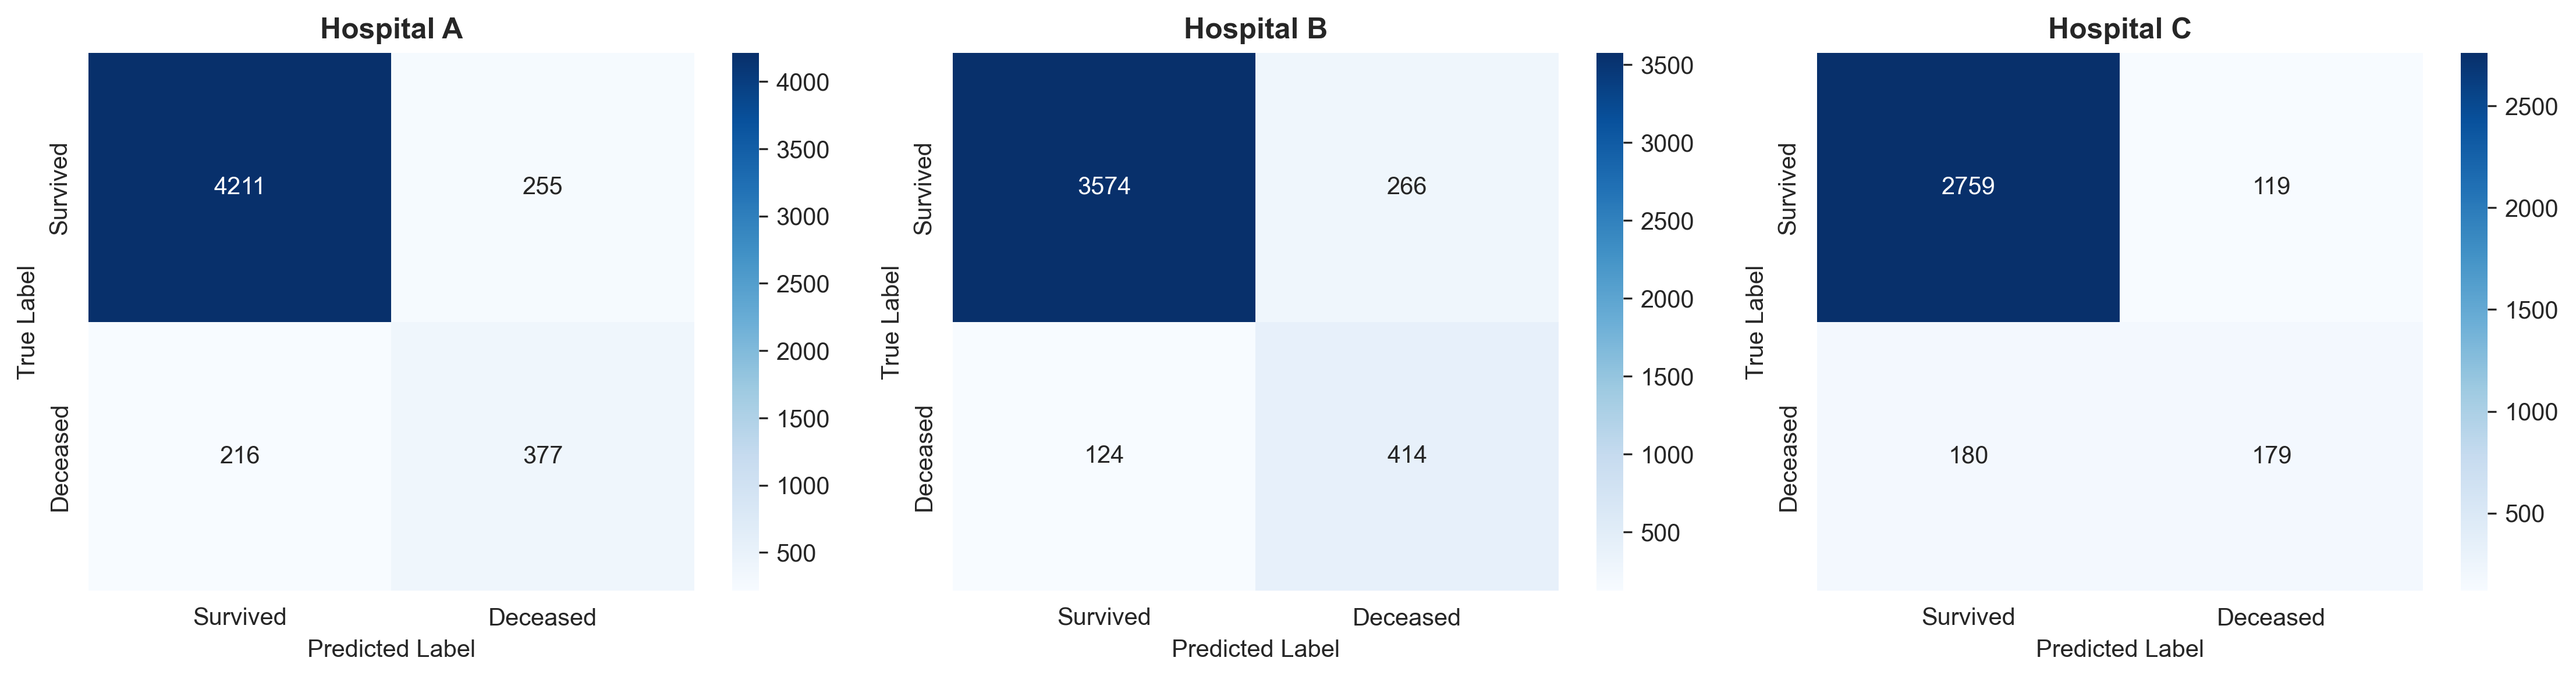
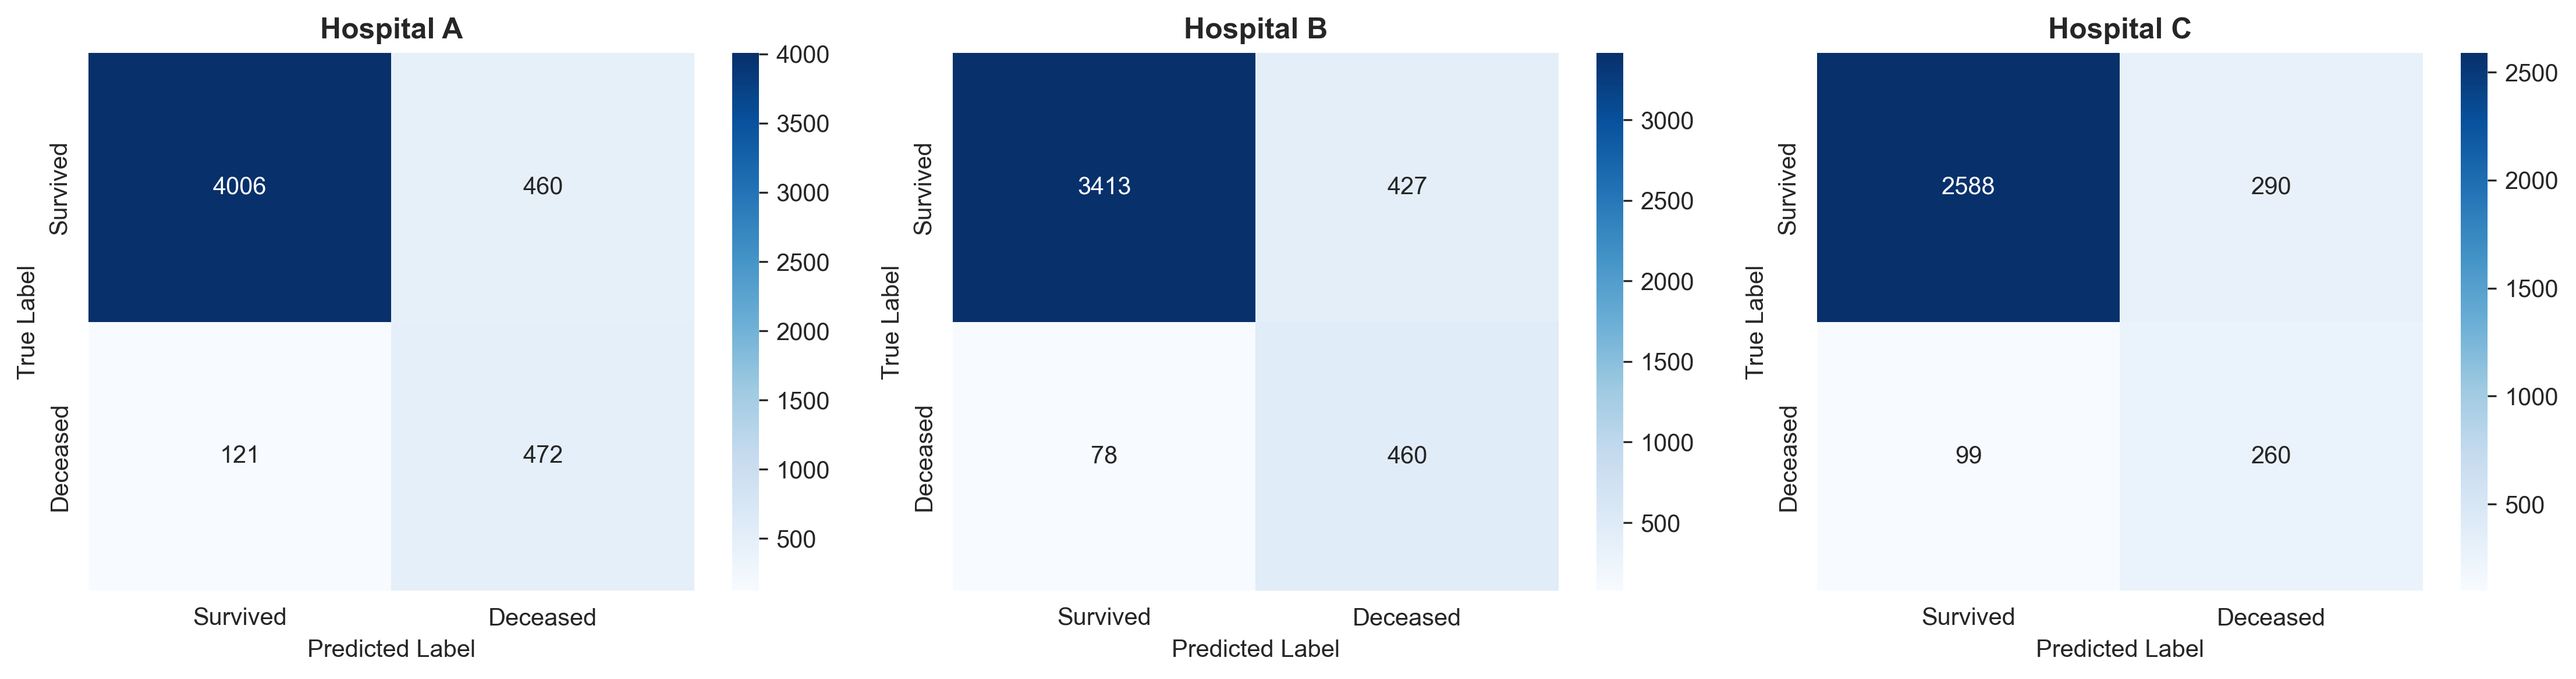
Added random seed for reproducible result

diff --git a/PoC/Model-Pipeline/himas-model-pipeline/himas_model_pipeline/client_app.py b/PoC/Model-Pipeline/himas-model-pipeline/himas_model_pipeline/client_app.py
@@ -2,7 +2,7 @@
 
 from flwr.app import ArrayRecord, Context, Message, MetricRecord, RecordDict
 from flwr.clientapp import ClientApp
-from himas_model_pipeline.task import load_data_from_bigquery, load_model, get_feature_dim
+from himas_model_pipeline.task import load_data_from_bigquery, load_model, get_feature_dim, set_random_seed
 from sklearn.utils.class_weight import compute_class_weight
 import numpy as np
 
@@ -13,6 +13,10 @@ app = ClientApp()
 @app.train()
 def train(msg: Message, context: Context):
     """Train the model on local hospital data."""
+
+    # Set random seed from config for reproducibility
+    random_seed = context.run_config.get("random-seed", 42)
+    set_random_seed(random_seed)
 
     # Load the data for this hospital
     partition_id = context.node_config["partition-id"]
@@ -49,6 +53,7 @@ def train(msg: Message, context: Context):
         batch_size=batch_size,
         class_weight=class_weight_dict,
         verbose=verbose,
+        shuffle=True,  # Shuffle for better training, but with fixed seed for reproducibility
     )
 
     # Extract metrics
@@ -76,6 +81,10 @@ def train(msg: Message, context: Context):
 @app.evaluate()
 def evaluate(msg: Message, context: Context):
     """Evaluate the model on local hospital validation data."""
+
+    # Set random seed from config for reproducibility
+    random_seed = context.run_config.get("random-seed", 42)
+    set_random_seed(random_seed)
 
     # Load the data for this hospital
     partition_id = context.node_config["partition-id"]

diff --git a/PoC/Model-Pipeline/himas-model-pipeline/himas_model_pipeline/server_app.py b/PoC/Model-Pipeline/himas-model-pipeline/himas_model_pipeline/server_app.py
@@ -3,7 +3,7 @@
 from flwr.app import ArrayRecord, Context
 from flwr.serverapp import Grid, ServerApp
 from flwr.serverapp.strategy import FedAvg
-from himas_model_pipeline.task import load_model
+from himas_model_pipeline.task import load_model, set_random_seed
 from pathlib import Path
 
 # Create ServerApp
@@ -17,6 +17,10 @@ def main(grid: Grid, context: Context) -> None:
 
     Coordinates federated learning across 3 hospitals for ICU mortality prediction.
     """
+
+    # Set random seed from config for reproducibility
+    random_seed = context.run_config.get("random-seed", 42)
+    set_random_seed(random_seed)
 
     # Read run config
     num_rounds: int = context.run_config["num-server-rounds"]

diff --git a/PoC/Model-Pipeline/himas-model-pipeline/himas_model_pipeline/task.py b/PoC/Model-Pipeline/himas-model-pipeline/himas_model_pipeline/task.py
@@ -8,9 +8,25 @@ from keras import layers
 from google.cloud import bigquery
 from sklearn.preprocessing import StandardScaler, LabelEncoder
 from typing import Tuple, Dict
+import random
+import tensorflow as tf
 
 # Make TensorFlow log less verbose
 os.environ["TF_CPP_MIN_LOG_LEVEL"] = "3"
+
+
+def set_random_seed(seed: int = 42) -> None:
+    """
+    Set random seeds for reproducibility across all libraries.
+    
+    Args:
+        seed: Random seed value to use
+    """
+    random.seed(seed)
+    np.random.seed(seed)
+    tf.random.set_seed(seed)
+    os.environ['PYTHONHASHSEED'] = str(seed)
+    print(f"🎲 Random seed set to: {seed}")
 
 # Configuration
 PROJECT_ID = "erudite-carving-472018-r5"

diff --git a/PoC/Model-Pipeline/himas-model-pipeline/evaluation_results/evaluation_report_20251108_234132.md b/PoC/Model-Pipeline/himas-model-pipeline/evaluation_results/evaluation_report_20251108_234132.md
@@ -1,0 +1,100 @@
+# HIMAS Federated Model - Test Set Evaluation Report
+
+**Evaluation Date:** 2025-11-08 23:41:32
+
+**Model Path:** `models/himas_federated_mortality_model.keras`
+
+---
+
+## Executive Summary
+
+The federated learning model was evaluated on test data from three hospitals, comprising a total of 12674 patient ICU stays. The model achieved an overall accuracy of 88.36% with an ROC AUC of 0.915, demonstrating strong discriminative ability for ICU mortality prediction.
+
+## Performance by Hospital
+
+### Hospital A
+
+- **Test Samples:** 5,059
+- **Mortality Prevalence:** 11.72%
+- **Accuracy:** 88.52%
+- **Precision:** 50.64%
+- **Recall (Sensitivity):** 79.60%
+- **Specificity:** 89.70%
+- **F1 Score:** 0.619
+- **ROC AUC:** 0.912
+- **Average Precision:** 0.569
+
+**Confusion Matrix:**
+- True Negatives: 4,006
+- False Positives: 460
+- False Negatives: 121
+- True Positives: 472
+
+### Hospital B
+
+- **Test Samples:** 4,378
+- **Mortality Prevalence:** 12.29%
+- **Accuracy:** 88.47%
+- **Precision:** 51.86%
+- **Recall (Sensitivity):** 85.50%
+- **Specificity:** 88.88%
+- **F1 Score:** 0.646
+- **ROC AUC:** 0.929
+- **Average Precision:** 0.663
+
+**Confusion Matrix:**
+- True Negatives: 3,413
+- False Positives: 427
+- False Negatives: 78
+- True Positives: 460
+
+### Hospital C
+
+- **Test Samples:** 3,237
+- **Mortality Prevalence:** 11.09%
+- **Accuracy:** 87.98%
+- **Precision:** 47.27%
+- **Recall (Sensitivity):** 72.42%
+- **Specificity:** 89.92%
+- **F1 Score:** 0.572
+- **ROC AUC:** 0.902
+- **Average Precision:** 0.541
+
+**Confusion Matrix:**
+- True Negatives: 2,588
+- False Positives: 290
+- False Negatives: 99
+- True Positives: 260
+
+## Aggregated Performance Across All Hospitals
+
+- **Total Test Samples:** 12,674
+- **Overall Mortality Prevalence:** 11.76%
+- **Accuracy:** 88.36%
+- **Precision (PPV):** 50.32%
+- **Recall (Sensitivity):** 80.00%
+- **Specificity:** 89.48%
+- **NPV:** 97.11%
+- **F1 Score:** 0.618
+- **ROC AUC:** 0.915
+- **Average Precision:** 0.592
+
+## Clinical Interpretation
+
+The model demonstrates strong performance with a recall of 80.00%, indicating it successfully identifies 80.00% of patients who will experience ICU mortality. The precision of 50.32% suggests that when the model predicts mortality, it is correct 50.32% of the time. The high specificity of 89.48% indicates the model rarely generates false alarms for patients who will survive.
+
+The ROC AUC of 0.915 demonstrates excellent discriminative ability, substantially exceeding the performance of random prediction (AUC = 0.5). This suggests the federated learning approach successfully learned meaningful patterns across the three hospitals without requiring centralized patient data.
+
+## Visualizations
+
+The following visualizations are available in the `figures/` directory:
+
+1. **ROC Curves** - Receiver Operating Characteristic curves for each hospital
+2. **Precision-Recall Curves** - Performance across different decision thresholds
+3. **Confusion Matrices** - Classification outcomes for each hospital
+4. **Metrics Comparison** - Side-by-side comparison of key performance indicators
+5. **Prediction Distribution** - Distribution of predicted probabilities by outcome
+
+---
+
+*Report generated automatically by HIMAS Model Evaluation System*
